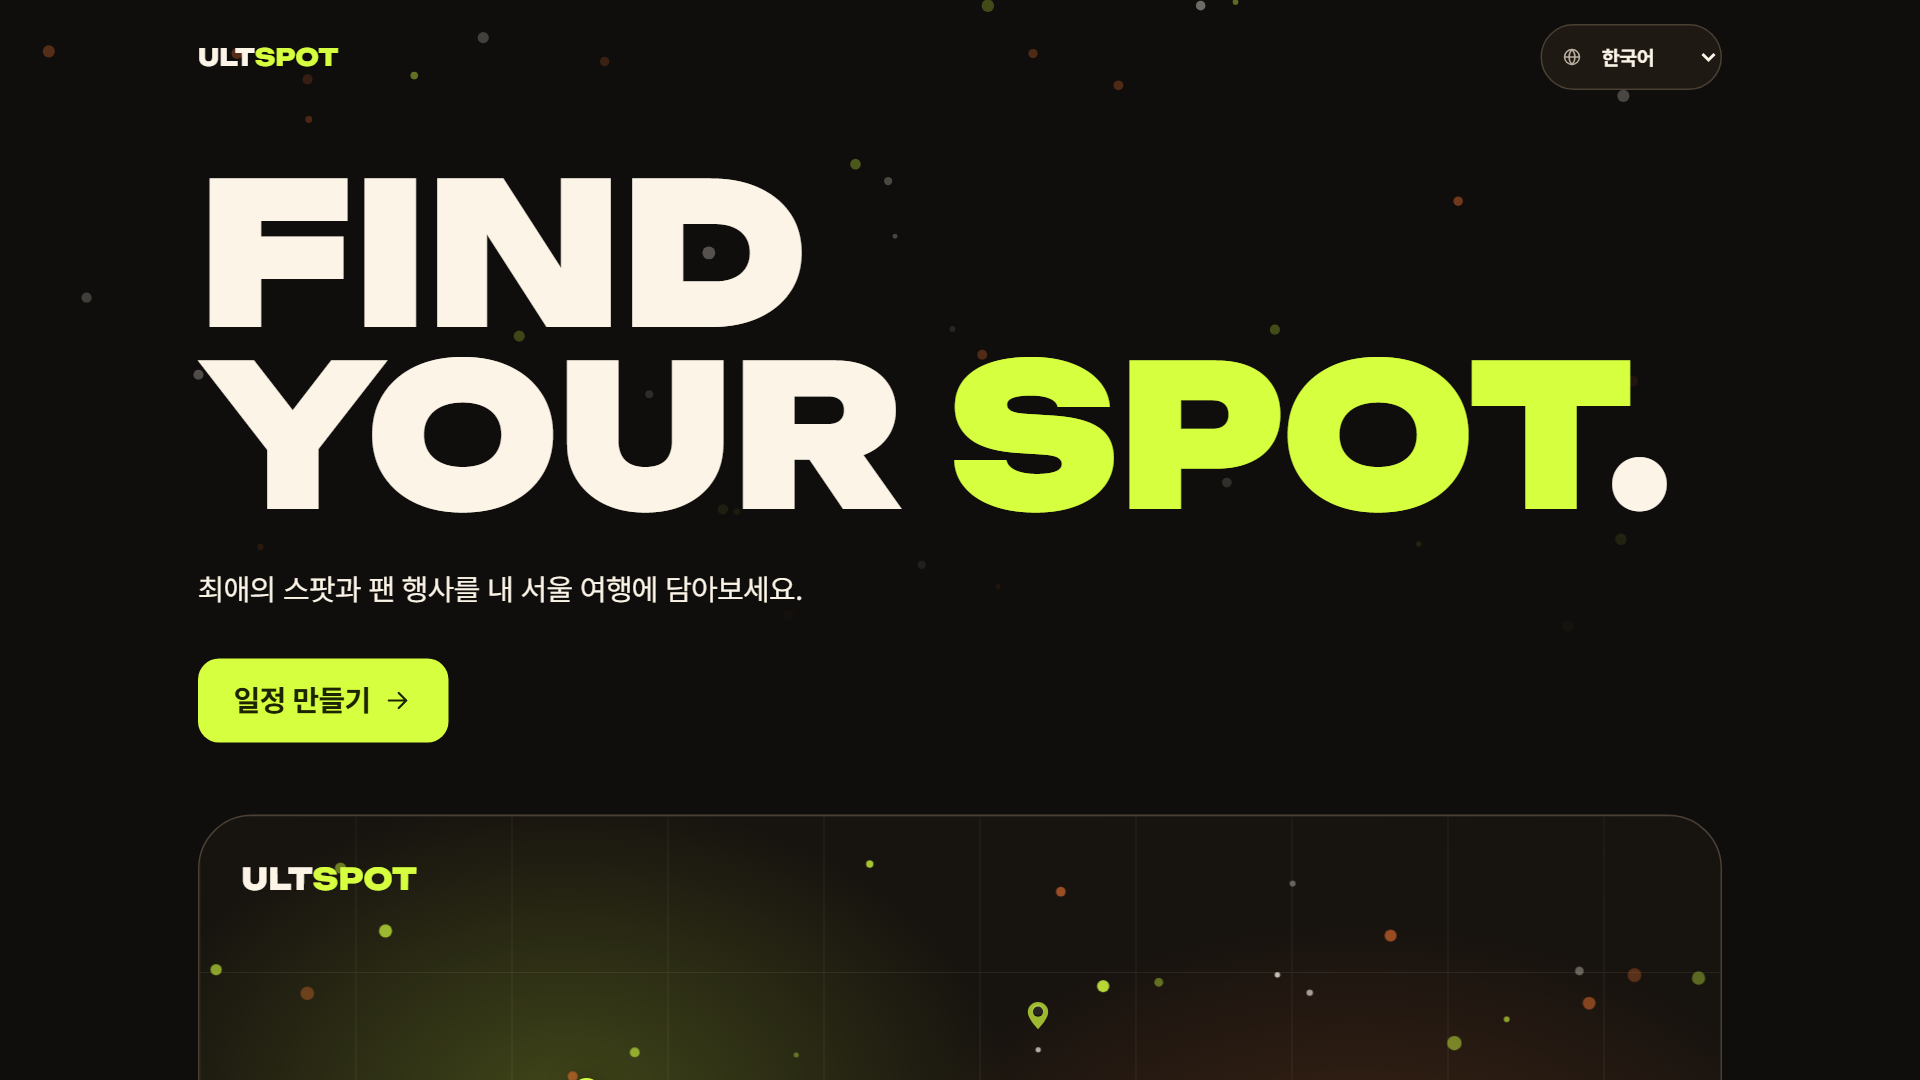
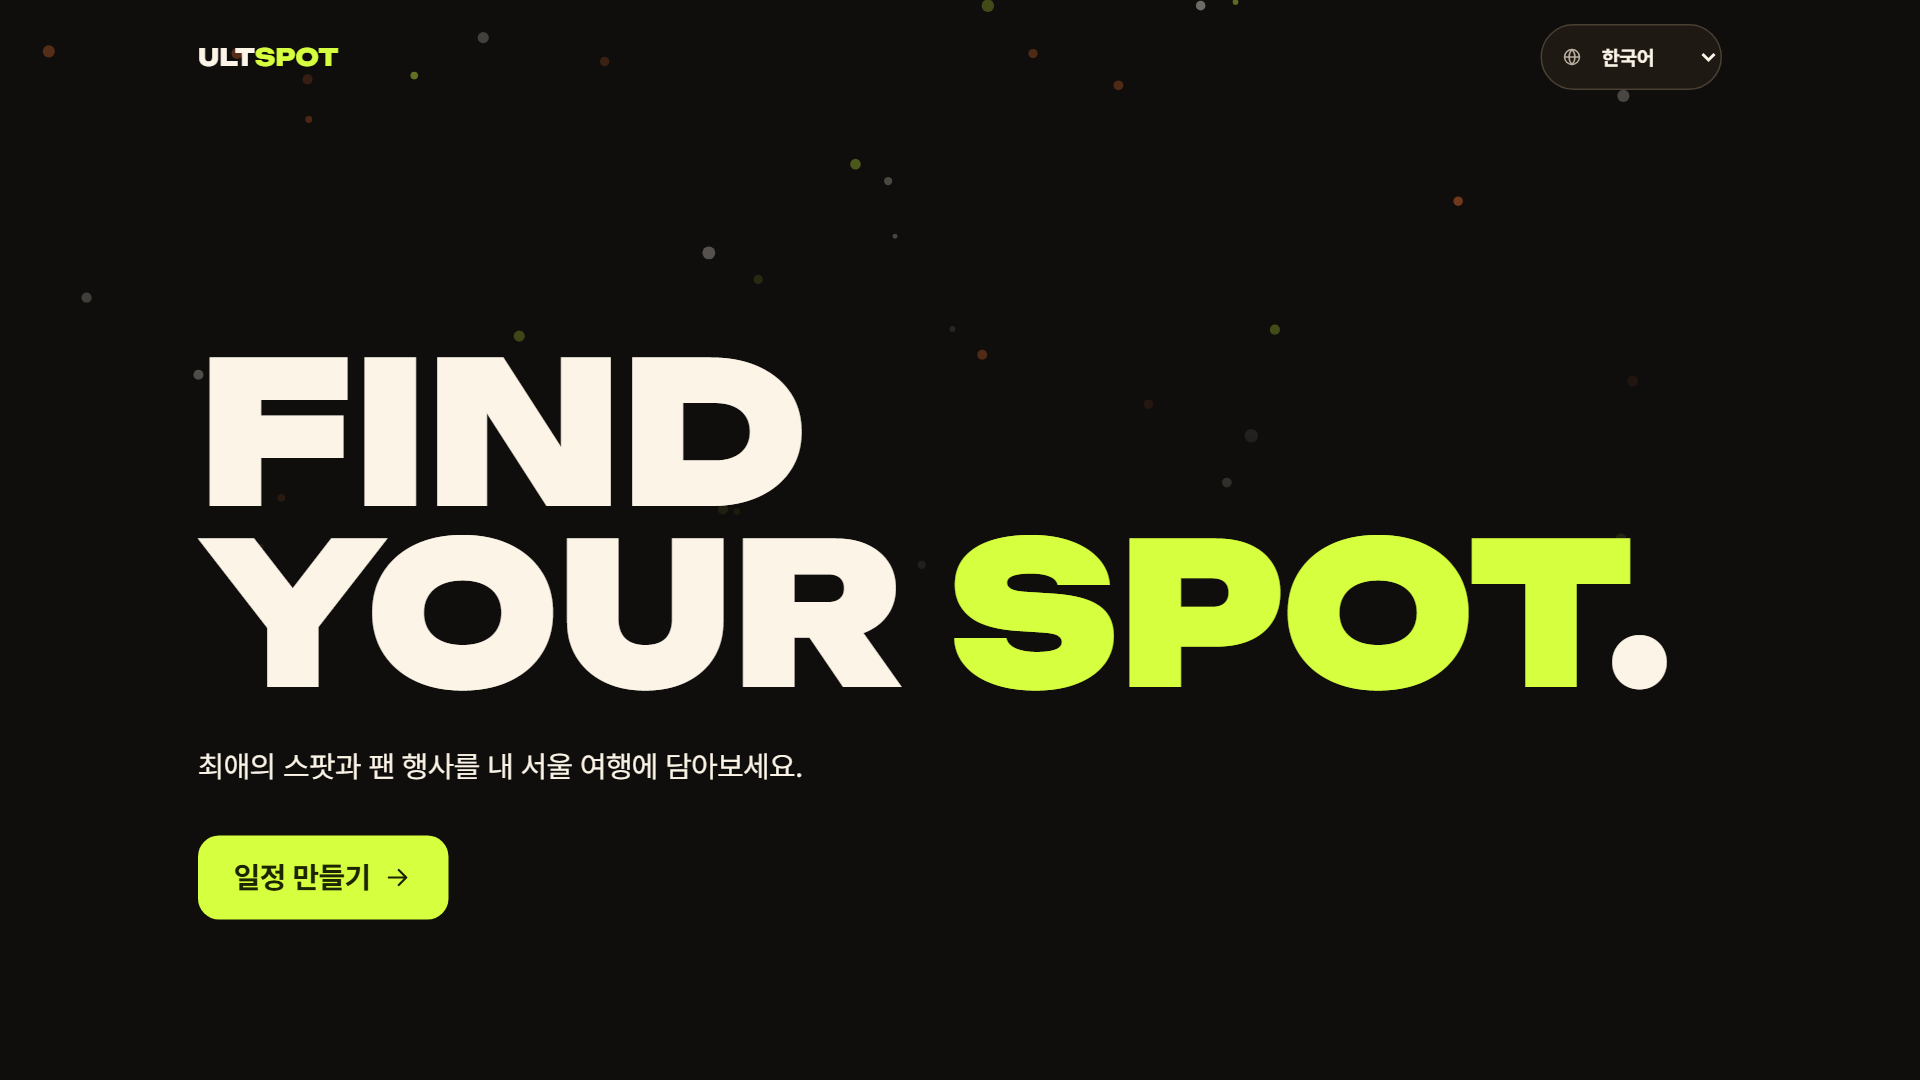
feat(home): 첫 화면을 슬로건까지로 끊고 제출 흐름 이미지를 더한다
16:9로 찍은 홈에서 지도 배너가 화면 하단에 반쯤 걸려 잘린 채 보였다.
의도한 구도가 아니라 사고처럼 보인다. 첫 화면은 슬로건·설명·시작 버튼까지만
보이고 배너는 스크롤 뒤에 나오는 것이 목업의 구성과도 맞는다.

`flex-1`만으로는 안 됐다. 페이지 전체가 이미 뷰포트보다 길어 나눠 줄 여유
공간이 없다. 그래서 히어로 블록에 `md:min-h-[calc(100dvh-4rem)]`로 높이를
명시했다. 4rem은 헤더 높이다. 모바일에는 걸지 않았다 — 390px에서는 히어로
내용이 이미 화면을 채워서, 높이를 강제하면 빈 공간만 생긴다.

커버를 잘라내는 방식도 시도했다가 버렸다. 뷰포트를 길게 잡고 위쪽 16:9만
자르면 히어로가 아래로 치우쳐 CTA가 잘렸다. 레이아웃을 고치는 쪽이 맞았고,
실제 화면도 같이 좋아진다.

제출 이미지에 4단계 흐름 5장을 더했다. 실제로 버튼을 눌러 나온 상태만
찍는다 — 화면에 없는 것을 연출하지 않는다. 마지막 장은 진짜 일정까지
가서 "이동시간 미확인 · 계획용 여유 45분"이 그대로 보인다.

찍는 중에 두 가지를 고쳤다. 4단계 레일 버튼은 일정이 만들어지기 전까지
비활성이라 본문 CTA를 눌러야 했고, 같은 이름의 버튼이 레일과 본문에
둘 다 있어 `e2e/flow.ts`의 도우미로 범위를 좁혔다.

Eyebrow의 `#d6ff3f22` 하드코딩을 토큰 기반 ring으로 바꿨다. 색의 원천은
theme.css 하나여야 한다(AGENTS.md 5).

검증: E2E 213건 통과·3건 skip(클라우드 키 없음), typecheck 0, lint 오류 0.
제출 이미지 7장이 모두 1920x1080·비율 1.778인 것을 파일 헤더에서 확인했다.
홈 3개 뷰포트를 직접 열어 모바일에 빈 공간이 생기지 않은 것을 확인했다.

diff --git a/e2e/cover.spec.ts b/e2e/cover.spec.ts
@@ -1,5 +1,6 @@
 import path from "node:path";
-import { test } from "@playwright/test";
+import { expect, test } from "@playwright/test";
+import { goToStep } from "./flow";
 
 /**
  * 제출용 16:9 이미지. `pnpm exec playwright test e2e/cover.spec.ts --project=desktop`로 찍는다.
@@ -27,6 +28,15 @@ test.describe("cover", { tag: "@capture" }, () => {
     await context.addCookies([{ name: "ultspot-locale", value: "ko", url: baseURL! }]);
     await page.goto("/", { waitUntil: "networkidle" });
     await page.evaluate(async () => { await document.fonts.ready; });
+
+    // 배너가 잘린 채 반쯤 보이면 어정쩡하다. 배너가 시작되기 전에서 끊는다.
+    const bannerTop = await page.evaluate(() => {
+      const el = document.querySelector("main [class*='rounded-device']");
+      return el ? Math.round(el.getBoundingClientRect().top + window.scrollY) : Number.POSITIVE_INFINITY;
+    });
+    expect(bannerTop, "지도 배너가 16:9 안으로 들어와 잘린다 — 뷰포트를 더 늘려야 한다")
+      .toBeGreaterThanOrEqual(SIZE.height);
+
     await page.screenshot({ path: path.join(OUT, "cover-home.png"), animations: "disabled", caret: "hide" });
   });
 
@@ -35,5 +45,40 @@ test.describe("cover", { tag: "@capture" }, () => {
     await page.goto("/plan", { waitUntil: "networkidle" });
     await page.evaluate(async () => { await document.fonts.ready; });
     await page.screenshot({ path: path.join(OUT, "cover-plan.png"), animations: "disabled", caret: "hide" });
+  });
+
+  /**
+   * 4단계를 순서대로 밟으며 각 화면을 남긴다. 심사자가 흐름을 읽을 수 있어야 한다.
+   * 화면에 없는 것을 연출하지 않는다 — 실제로 눌러서 나온 상태만 찍는다.
+   */
+  test("cover-flow @cover", async ({ page, context, baseURL }) => {
+    test.slow();
+    await context.addCookies([{ name: "ultspot-locale", value: "ko", url: baseURL! }]);
+    await page.goto("/plan", { waitUntil: "networkidle" });
+    await page.evaluate(async () => { await document.fonts.ready; });
+
+    const shot = (name: string) =>
+      page.screenshot({ path: path.join(OUT, `flow-${name}.png`), animations: "disabled", caret: "hide" });
+
+    await shot("1-favorite");
+
+    await page.getByRole("button", { name: "K팝 장소 전체 둘러보기" }).click();
+    await page.waitForLoadState("networkidle");
+    await shot("2-spots");
+
+    // 검증된 장소 두 곳을 담는다. 없는 데이터를 만들어 넣지 않는다.
+    const add = page.getByRole("button", { name: /^\s*담기/ });
+    const count = Math.min(await add.count(), 2);
+    for (let i = 0; i < count; i++) await add.nth(0).click();
+    await shot("2-spots-picked");
+
+    // 같은 이름의 버튼이 단계 레일과 본문 CTA 양쪽에 있어 도우미로 범위를 좁힌다.
+    await goToStep(page, 2, "ko");
+    await shot("3-period");
+
+    // 4단계 레일 버튼은 일정이 만들어지기 전까지 비활성이다. 본문 CTA로 먼저 만든다.
+    await page.getByRole("button", { name: "일정 만들기" }).last().click();
+    await page.waitForLoadState("networkidle");
+    await shot("4-itinerary");
   });
 });

diff --git a/src/components/home-intro.tsx b/src/components/home-intro.tsx
@@ -21,19 +21,26 @@ export function HomeIntro() {
       <LanguageToggle />
     </header>
 
-    <section className="relative shell flex flex-1 flex-col justify-center pt-8 pb-12">
-      {/* 슬로건은 브랜드 표기라 두 언어 모두 영어로 둔다. */}
-      {/* 줄바꿈 때문에 접근성 이름이 "FINDYOUR SPOT."으로 붙어 읽히던 것을 aria-label로 고정한다. */}
-      <h1 lang="en" aria-label="Find your spot." className="text-hero text-text">
-        FIND
-        <br />
-        YOUR <em className="text-lime not-italic">SPOT</em>.
-      </h1>
-      <p className="mt-7 max-w-[36ch] text-body text-text md:text-subhead md:font-normal">{t.home.lead}</p>
-      <div className="mt-8 flex flex-wrap items-center gap-x-5 gap-y-3">
-        <Link href="/plan" className={buttonStyles({ size: "lg" })}>
-          {t.home.cta} <ArrowRightIcon />
-        </Link>
+    <section className="relative shell flex flex-1 flex-col pb-12">
+      {/* 첫 화면은 슬로건과 시작 버튼까지만 보이게 한다. 이 블록이 남은 높이를 채우므로
+          지도 배너는 항상 접힌 자리 아래에서 시작한다. 이전에는 배너가 화면 하단에
+          반쯤 걸려 잘린 채로 보였다. */}
+      {/* flex-1만으로는 늘어나지 않는다 — 페이지 전체가 이미 뷰포트보다 길어 남는 공간이 없다.
+          넓은 화면에서만 높이를 명시해 배너를 접힌 자리 아래로 민다. 모바일은 그대로 둔다. */}
+      <div className="flex flex-1 flex-col justify-center pt-8 md:min-h-[calc(100dvh-4rem)]">
+        {/* 슬로건은 브랜드 표기라 어느 언어에서도 영어로 둔다. */}
+        {/* 줄바꿈 때문에 접근성 이름이 "FINDYOUR SPOT."으로 붙어 읽히던 것을 aria-label로 고정한다. */}
+        <h1 lang="en" aria-label="Find your spot." className="text-hero text-text">
+          FIND
+          <br />
+          YOUR <em className="text-lime not-italic">SPOT</em>.
+        </h1>
+        <p className="mt-7 max-w-[36ch] text-body text-text md:text-subhead md:font-normal">{t.home.lead}</p>
+        <div className="mt-8 flex flex-wrap items-center gap-x-5 gap-y-3">
+          <Link href="/plan" className={buttonStyles({ size: "lg" })}>
+            {t.home.cta} <ArrowRightIcon />
+          </Link>
+        </div>
       </div>
 
       {/* 기준 목업의 첫인상 — "서울 곳곳에 스팟이 흩어져 있다". 지역 이름과 개수는

diff --git a/src/components/ui/eyebrow.tsx b/src/components/ui/eyebrow.tsx
@@ -7,7 +7,9 @@ export function Eyebrow({ className, children, ...props }: HTMLAttributes<HTMLDi
       className={cn("flex items-center gap-2.5 font-sans text-eyebrow text-lime uppercase", className)}
       {...props}
     >
-      <span aria-hidden className="size-1.75 rounded-full bg-lime shadow-[0_0_0_4px_#d6ff3f22]" />
+      {/* 라임을 하드코딩(#d6ff3f22)하고 있었다. 색의 원천은 theme.css 하나여야 한다(AGENTS.md 5).
+          같은 모양을 토큰 기반 ring으로 낸다. */}
+      <span aria-hidden className="size-1.75 rounded-full bg-lime ring-4 ring-lime/15" />
       {children}
     </div>
   );
